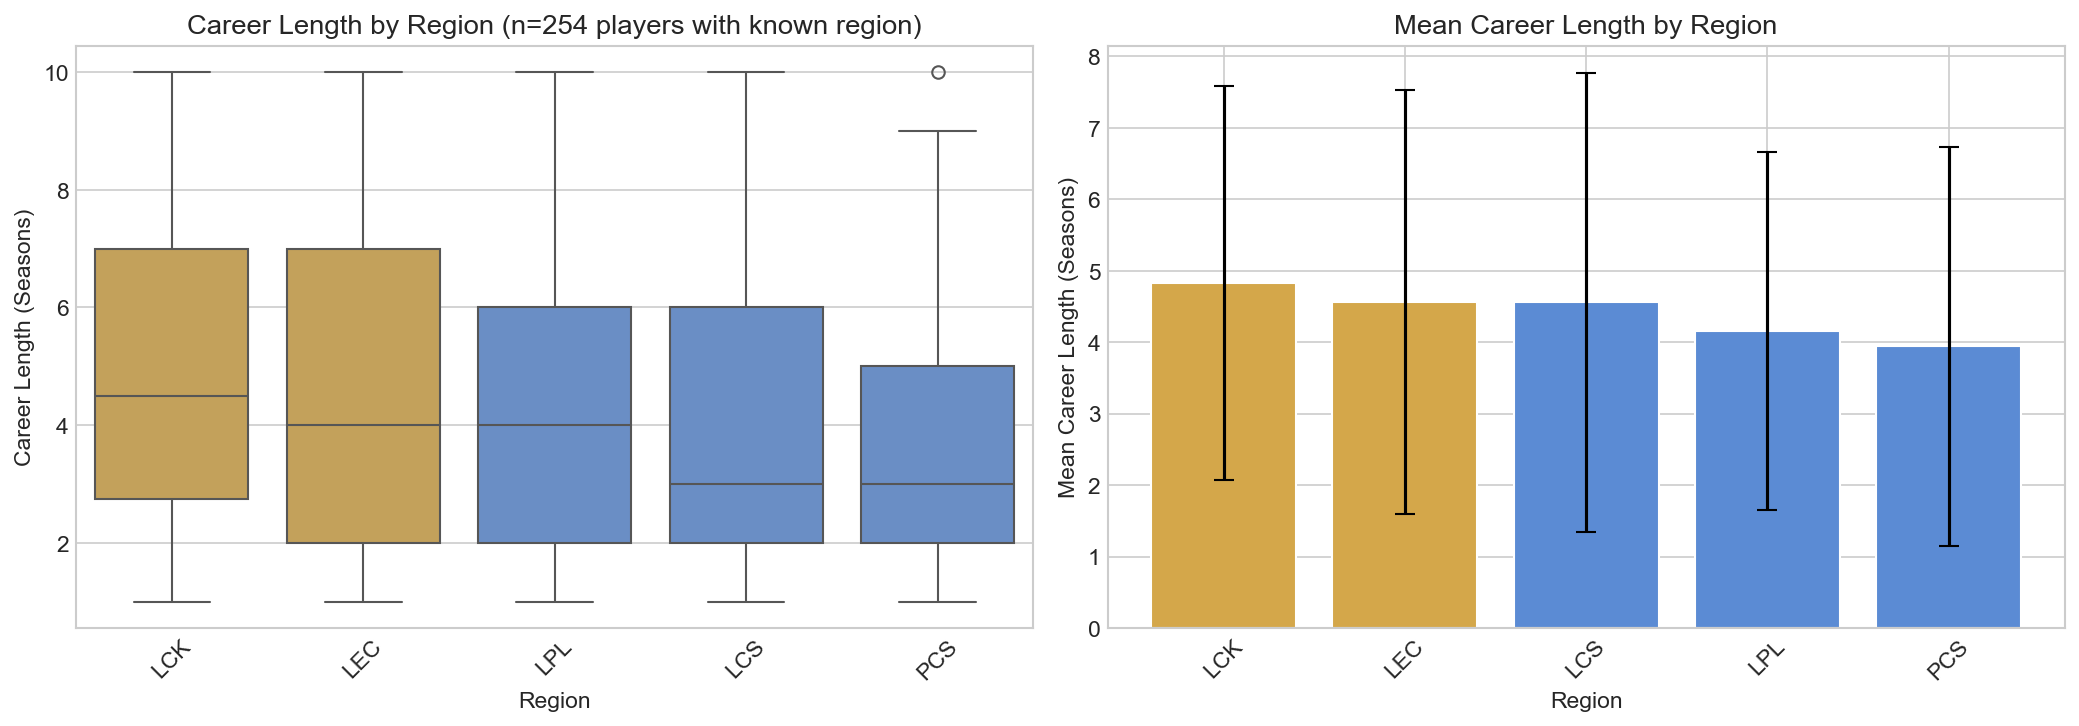
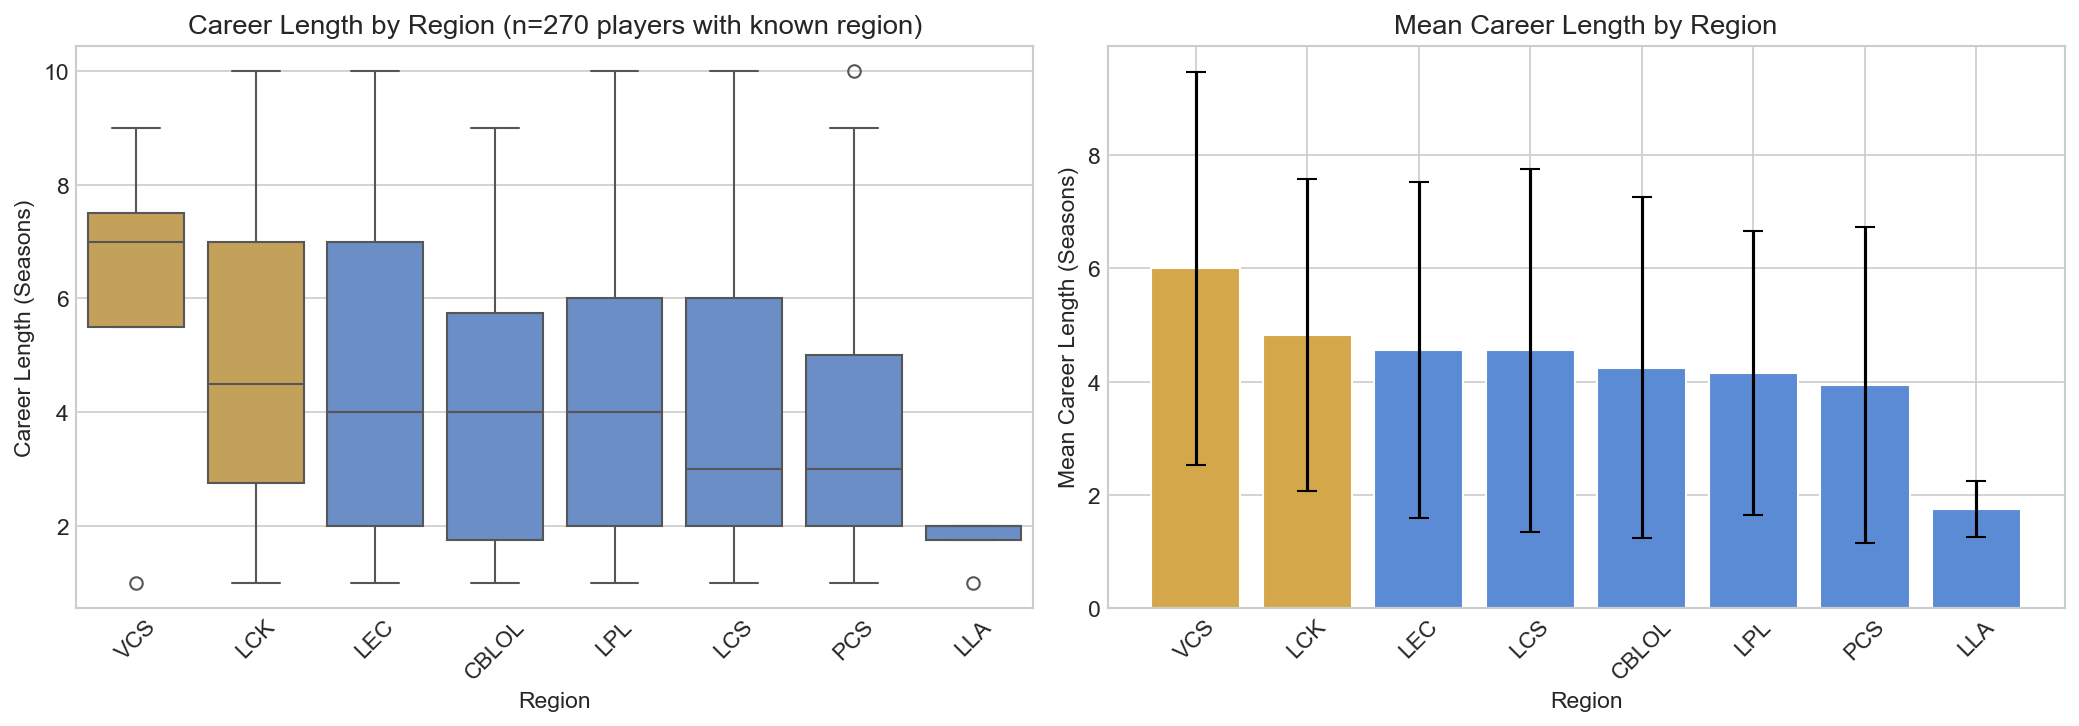
Add LCS as separate region and fix league mappings
Made-with: Cursor

diff --git a/src/cleaning/process_enriched_csvs.py b/src/cleaning/process_enriched_csvs.py
@@ -23,6 +23,9 @@ LEAGUE_TO_REGION = {
     # Older league names
     'NA LCS': 'LCS', 'EU LCS': 'LEC', 'OGN': 'LCK', 'GPL': 'PCS',
     'LMS': 'PCS', 'CBLoL': 'CBLOL', 'NALCS': 'LCS', 'EULCS': 'LEC',
+    # Regional naming variations in data
+    'Brazil': 'CBLOL', 'Vietnam': 'VCS', 
+    'Latin America': 'LLA', 'LAN': 'LLA', 'LAS': 'LLA',
     # Tier 2 leagues
     'LCK CL': 'LCK', 'LDL': 'LPL', 'EUM': 'LEC', 'LTAN': 'LCS',
     'NLC': 'LEC', 'LFL': 'LEC', 'PRM': 'LEC', 'SL': 'LEC',
